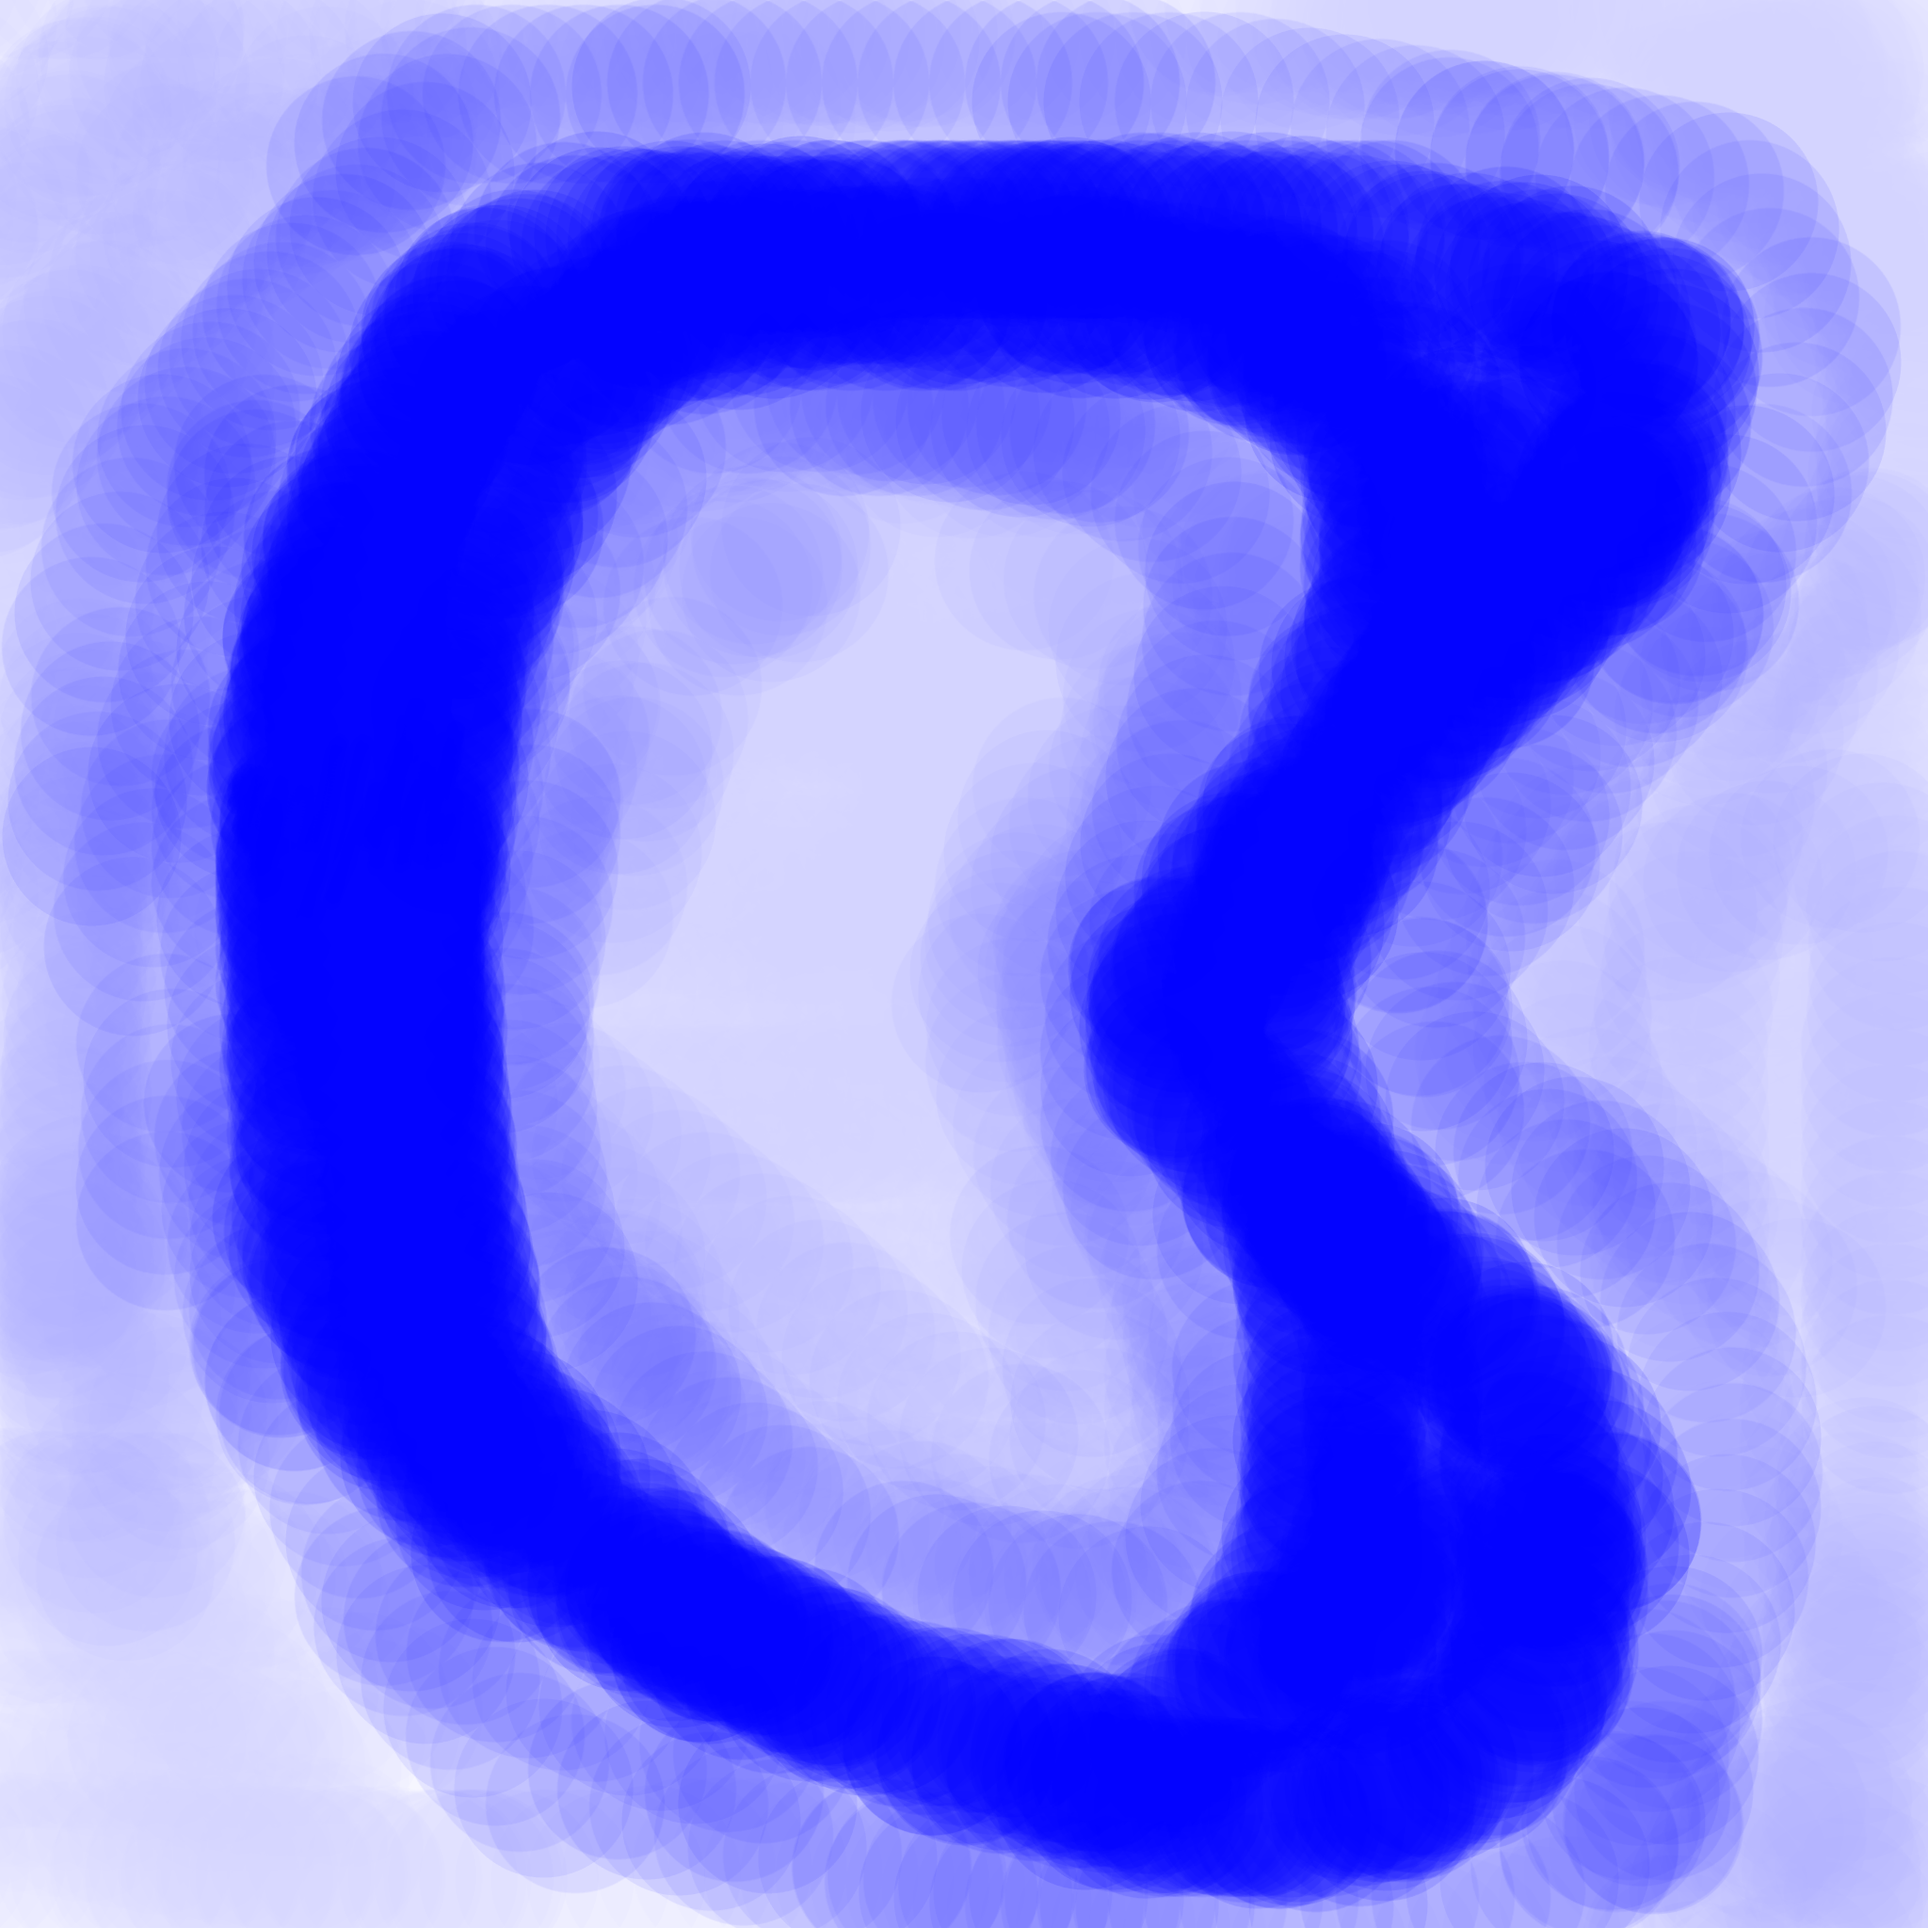
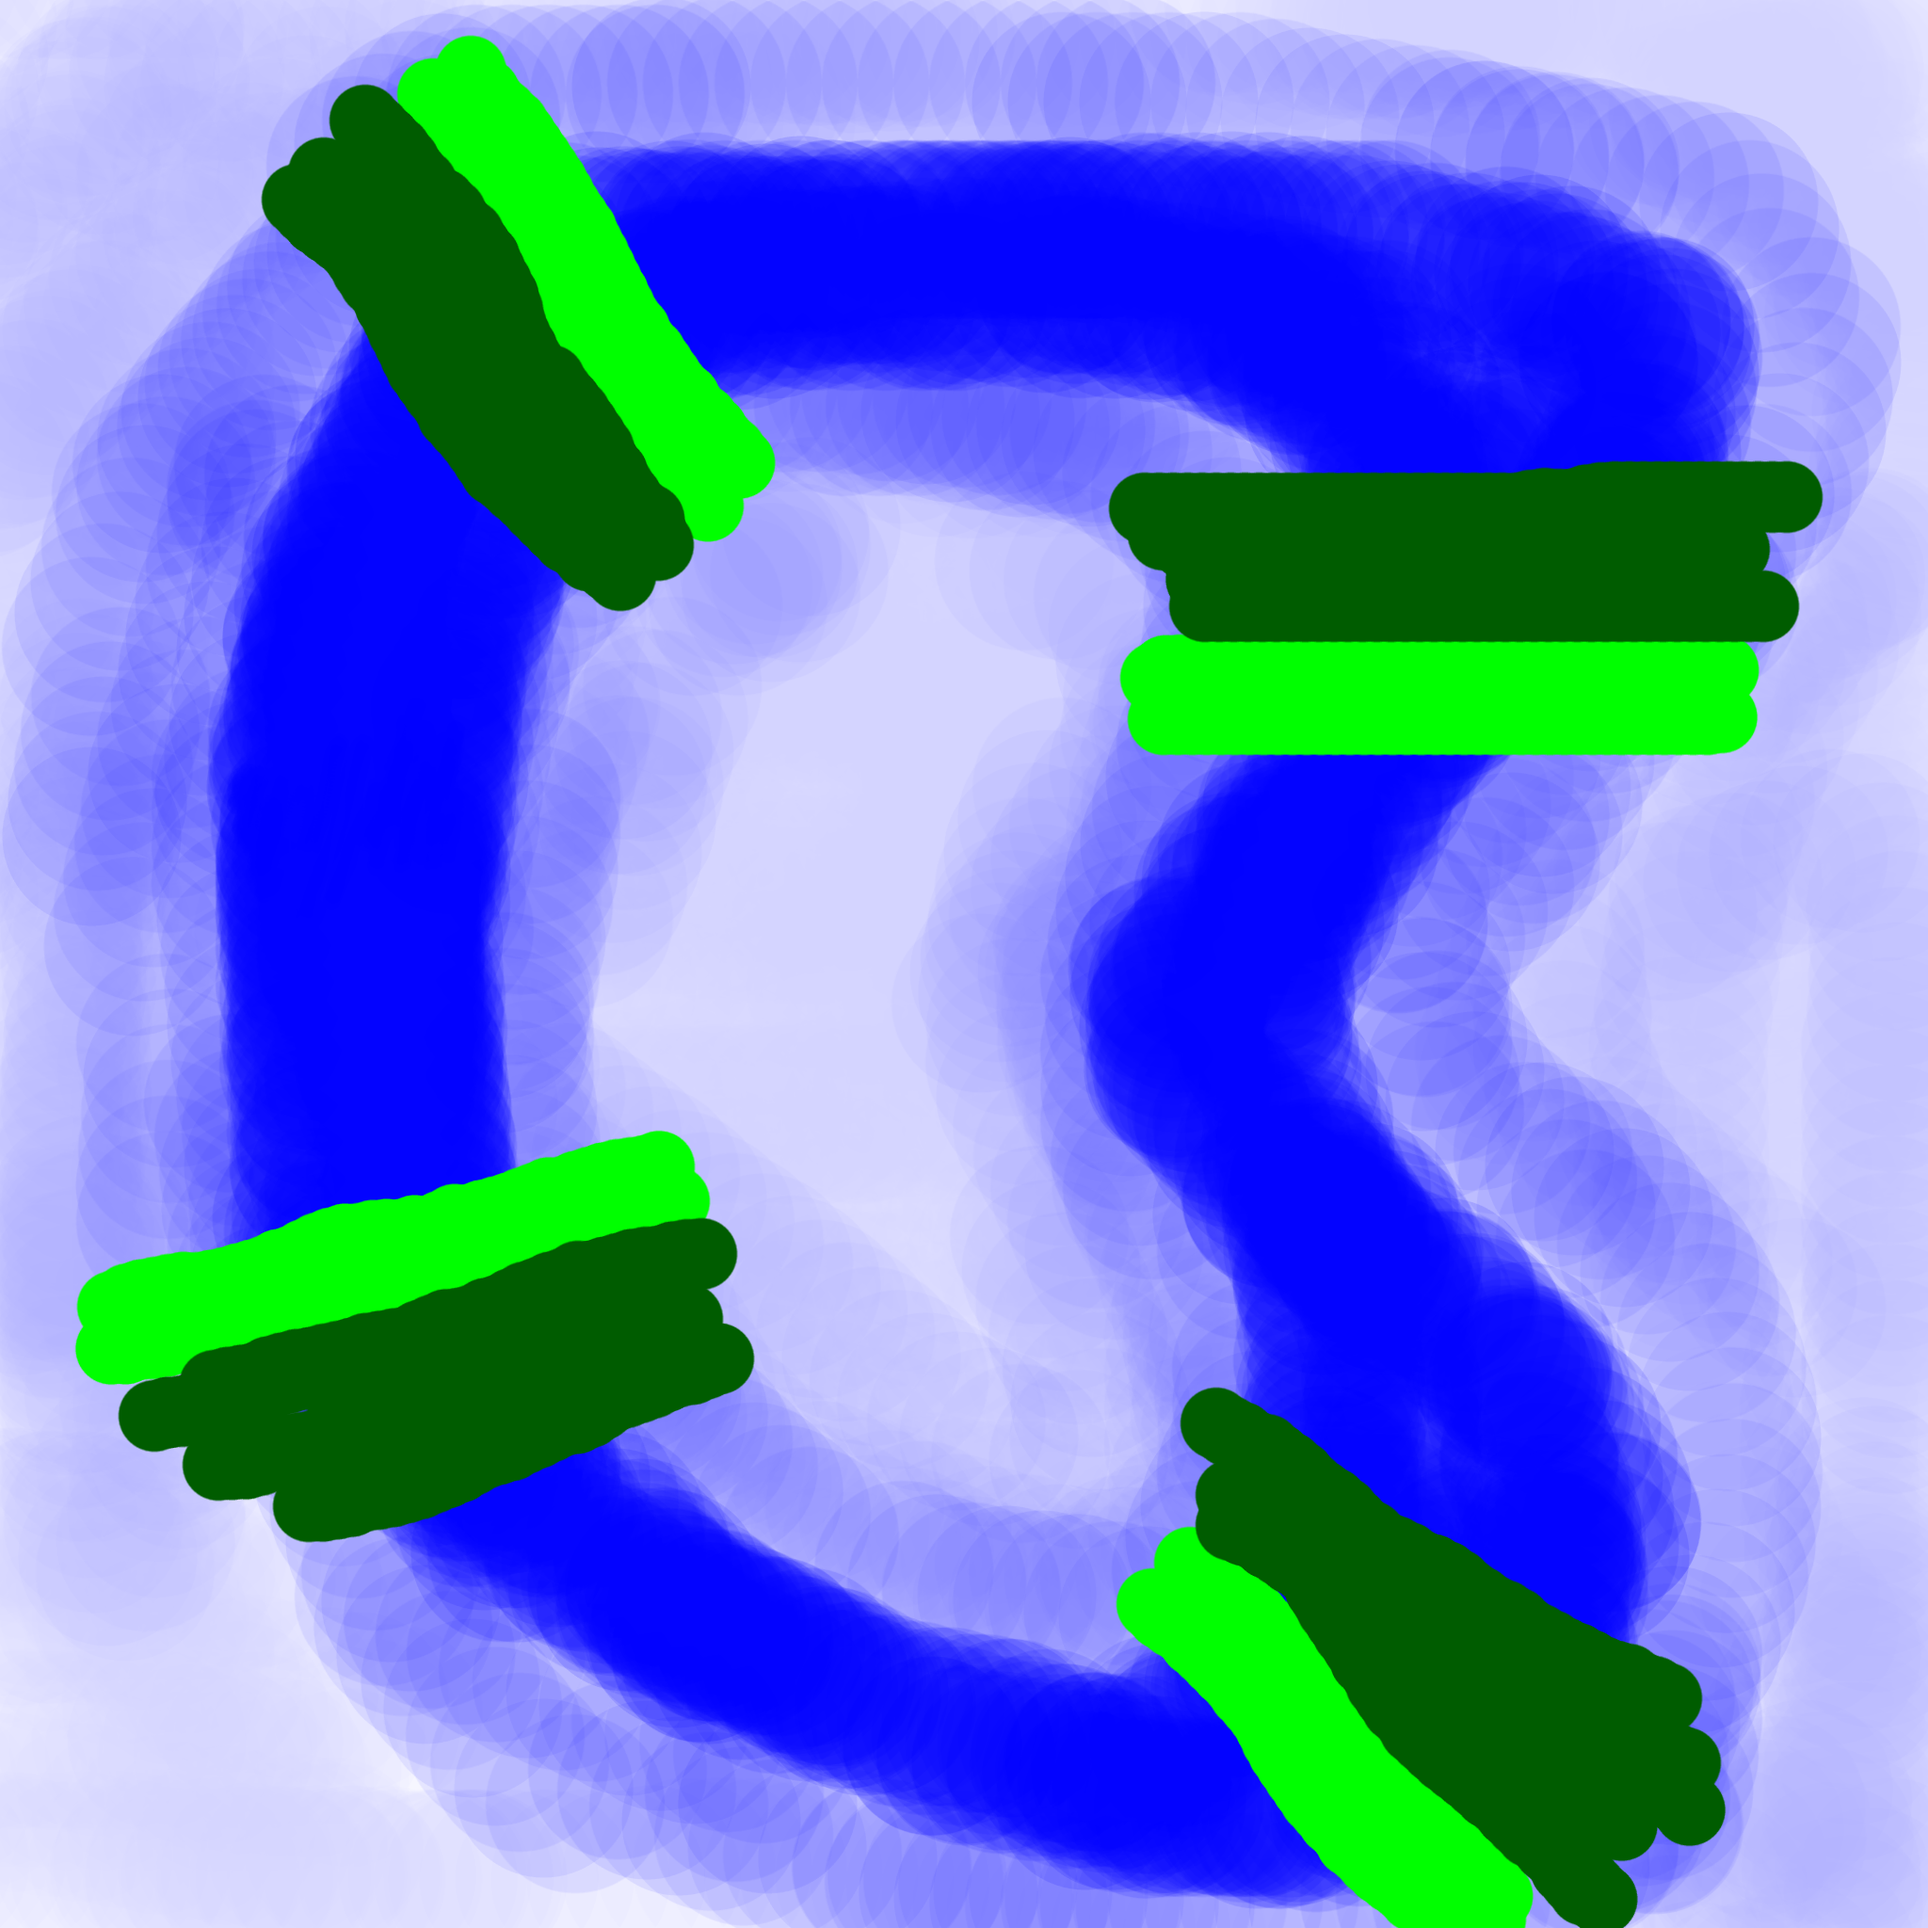
working laps and checkpoints

diff --git a/race.py b/race.py
@@ -9,6 +9,8 @@ class Race(Scene):
         Scene.__init__(self)
         
         self.track_layer = ScrollableLayer()
+        self.track_layer.px_width = track.get_size()[0]
+        self.track_layer.px_height = track.get_size()[1]
         self.track_layer.add(track)
         self.track = track
         
@@ -20,6 +22,7 @@ class Race(Scene):
         self.scroller.add(self.cars_layer)
         
         num_player_cars = 0
+        self.stats = {}
         for car in self.cars:
             # Add the car to the cars layer.
             self.cars_layer.add(car)
@@ -30,6 +33,8 @@ class Race(Scene):
             if isinstance(car, PlayerCar):
                 num_player_cars += 1
                 self.scroller.set_focus(*car.position)
+            
+            self.stats[car] = Stats()
             
             # Reset the car's state.
             car.reset()
@@ -43,9 +48,42 @@ class Race(Scene):
     def update(self, dt):
         """Updates all the cars."""
         for car in self.cars:
+            # update the car
             grip = self.track.get_grip_at(car.position)
             car.update(dt, grip)
             
+            # update checkpoints
+            checkpoint = self.track.get_checkpoint_at(car.position)
+            if checkpoint == 1 and not self.stats[car].in_checkpoint:
+                self.stats[car].pre_checkpoint = True
+                self.stats[car].in_checkpoint = True
+            elif checkpoint == 2 and self.stats[car].pre_checkpoint and self.stats[car].in_checkpoint:
+                self.stats[car].pre_checkpoint = False
+                self.stats[car].checkpoint += 1
+                print 'Checkpoint', self.stats[car].checkpoint
+            elif checkpoint == 2 and not self.stats[car].pre_checkpoint and not self.stats[car].in_checkpoint:
+                self.stats[car].in_checkpoint = True
+                self.stats[car].checkpoint -= 1
+                print 'Checkpoint', self.stats[car].checkpoint
+            elif checkpoint == 0:
+                self.stats[car].in_checkpoint = False
+                self.stats[car].pre_checkpoint = False
+            
+            # update laps
+            if self.stats[car].checkpoint == self.track.get_checkpoints():
+                self.stats[car].checkpoint = 0
+                self.stats[car].laps += 1
+                print 'Laps ', self.stats[car].laps
+                if self.stats[car].laps == self.track.get_laps():
+                    print 'Finished'
+            
             if isinstance(car, PlayerCar):
                 self.scroller.set_focus(*car.position)
+        
+class Stats():
+    def __init__(self):
+        self.laps = 0
+        self.checkpoint = -1
+        self.pre_checkpoint = False
+        self.in_checkpoint = False
         

diff --git a/track.py b/track.py
@@ -14,7 +14,6 @@ class Track(cocos.sprite.Sprite):
             raise Exception('Track not found')
         # load the track image
         track_image = cp.get(track, 'track_image')
-        #self.track = cocos.sprite.Sprite(track_image)
         super(Track, self).__init__(track_image)
         height = cp.getint(track, 'height')
         width = cp.getint(track, 'width')
@@ -28,14 +27,36 @@ class Track(cocos.sprite.Sprite):
         
         # get track overlay
         overlay_file = cp.get(track, 'overlay_image')
-        #self.overlay = cocos.sprite.Sprite(overlay_file)
         overlay = Image.open(os.path.join('cups', 'garden', overlay_file))
         self.overlay = overlay.load()
+        
+        # set number of checkpoints
+        self.checkpoints = cp.getint(track, 'checkpoints')
+        
+        # set number of laps
+        self.laps = cp.getint(track, 'laps')
     
     def get_grip_at(self, (x,y)):
         pixel = self.overlay[x,self.size[1] - y]
         return pixel[3]
     
+    def get_checkpoint_at(self, (x,y)):
+        pixel = self.overlay[x,self.size[1] - y]
+        if 10 < pixel[1] < 100:
+            return 1
+        elif pixel[1] > 125:
+            return 2
+        return 0
+    
     def get_start(self):
         return self.start
-
+    
+    def get_checkpoints(self):
+        return self.checkpoints
+    
+    def get_size(self):
+        return self.size
+    
+    def get_laps(self):
+        return self.laps
+    

diff --git a/cups.py b/cups.py
@@ -1,7 +1,6 @@
 import os
 from glob import glob
 
-import tiled2cocos
 import cocos
 
 from track import Track
@@ -18,13 +17,9 @@ class Cup(object):
        also takes care of loading the current map."""
     
     def __init__(self, name):
-        # TODO: apply sorting
-        # TODO: add configuration files
-        #self.map_files = glob(os.path.join(CUPS_FOLDER, name, '*.tmx'))
         f = open(os.path.join(CUPS_FOLDER, name, 'tracklist.txt'), 'r')
         tracklist = f.read()
         self.track_names = tracklist.split('\n')
-        #self.map_files = glob(os.path.join(CUPS_FOLDER, name,'track*.png'))
         self.current_index = 0
         self.name = name
     
@@ -38,7 +33,6 @@ class Cup(object):
         if self.has_next_map():
             track_name = self.track_names[self.current_index]
             self.current_index += 1
-            #return tiled2cocos.load_map(map_path)
             return Track(self.name, track_name)
         return None 
 
